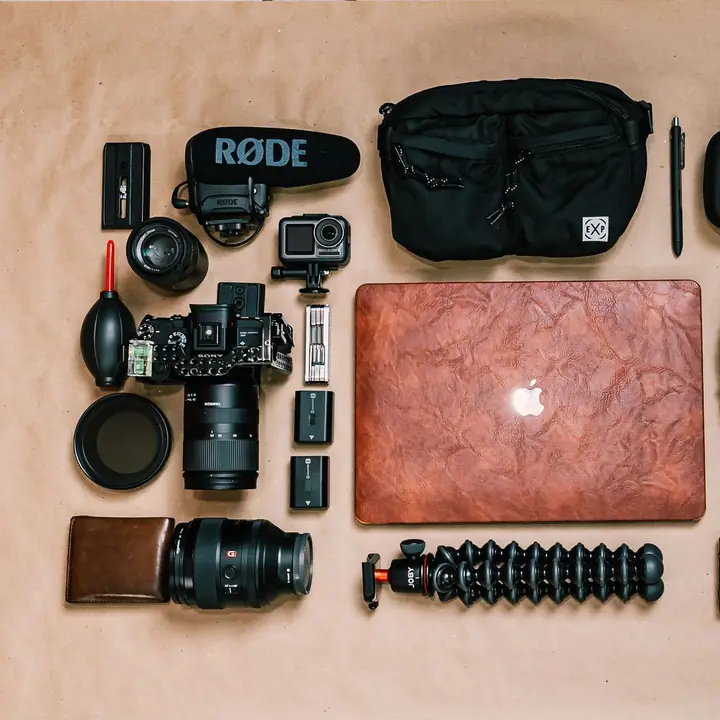
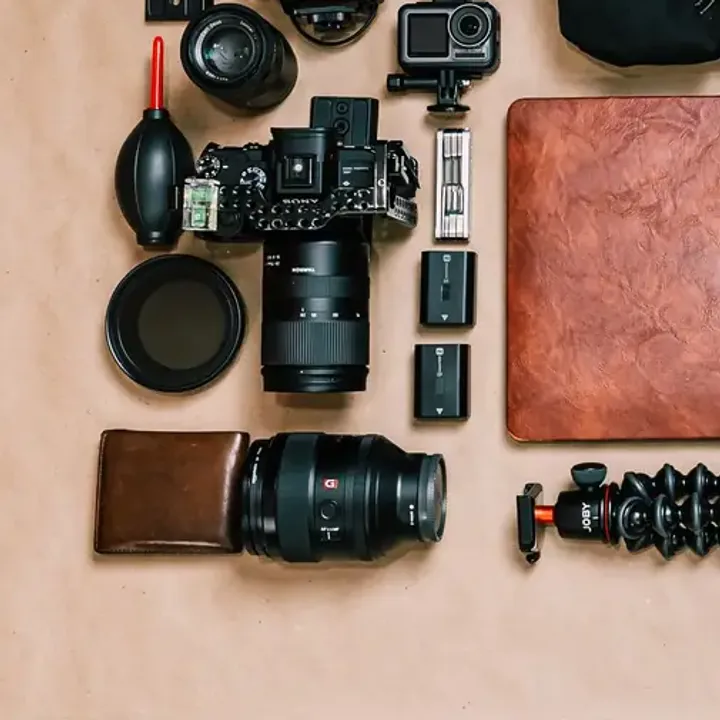
Harden the real-media work: licensing, contrast, motion and payload
The photography and footage landed in e9f0655; this is the audit pass over it.
An adversarial review across licensing, trademarks, endorsement, accessibility,
payload and regression found 16 defects that survived verification. Endorsement
came back clean — no photo is captioned or positioned as a Creator Vault
customer, which was the licence risk worth checking.

Licensing. Re-running the ingest script without FFMPEG rewrote CREDITS.md from
the current run's successes, so the documented no-FFMPEG mode silently deleted
the hero video's only record of source, photographer and licence while the three
video files kept shipping. A failed photo download did the same to its row.
Credits are now built from what is actually on disk, and an asset no manifest
entry claims warns loudly instead of shipping uncredited. Verified by simulating
both failure modes against the real code path with the network stubbed.

Trademarks. brand-01 carried a large legible RØDE wordmark and an Apple logo on
the tile captioned "Brand Kit". The brief asks us to avoid those where we can, so
the shot is cropped to the gear and keeps its 1:1 framing. The crop is recorded
in the manifest as a fractional box and applied by the ingest pipeline before the
downscale, so a future re-run reproduces the trademark-free framing at full
resolution rather than restoring the original. Its alt text no longer describes a
microphone and headphones that are not in the frame.
[…]

diff --git a/src/components/hero-backdrop.tsx b/src/components/hero-backdrop.tsx
@@ -2,7 +2,7 @@
 
 import { useEffect, useRef } from "react";
 
-import { usePrefersReducedMotion } from "@/lib/use-reduced-motion";
+import { useIsHydrated, usePrefersReducedMotion } from "@/lib/use-reduced-motion";
 
 /**
  * Creator-at-work footage behind the whole hero, dimmed so the headline stays
@@ -10,13 +10,17 @@ import { usePrefersReducedMotion } from "@/lib/use-reduced-motion";
  * public/media/CREDITS.md.
  *
  * A real person moving behind the copy is exactly what a reduced-motion
- * preference is asking us not to do, so this is a client component: when the
- * preference is on, the loop is held on its first frame (which is also the
- * poster), and the page reads as a still photograph. The preference can change
- * mid-session, so it is applied in an effect rather than only at mount.
+ * preference is asking us not to do, so motion here is opt-in rather than
+ * opt-out. The element ships WITHOUT `autoplay` and without sources: the
+ * server cannot know the preference, and an SSR `autoplay` would start the
+ * fetch at parse time and have the whole loop down before any effect could
+ * pause it. Under reduced motion the loop is therefore never requested at all
+ * and the poster is the entire backdrop. The preference can change mid-session,
+ * so it is applied in an effect rather than only at mount.
  */
 export function HeroBackdrop() {
   const reduced = usePrefersReducedMotion();
+  const hydrated = useIsHydrated();
   const videoRef = useRef<HTMLVideoElement>(null);
 
   useEffect(() => {
@@ -25,12 +29,17 @@ export function HeroBackdrop() {
     if (reduced) {
       video.pause();
       video.currentTime = 0;
-    } else {
-      // Autoplay policies may have declined before hydration; asking again is
-      // harmless and a rejection just leaves the poster in place.
-      video.play().catch(() => {});
+      return;
     }
-  }, [reduced]);
+    // The <source> children appear only after hydration, and appending them
+    // does not by itself restart resource selection — the element already
+    // finished with no source and sits at NETWORK_EMPTY. load() is what makes
+    // it look again; without it play() rejects and only the poster is ever
+    // shown.
+    if (video.networkState === video.NETWORK_EMPTY) video.load();
+    // Autoplay policies may decline; a rejection just leaves the poster up.
+    video.play().catch(() => {});
+  }, [reduced, hydrated]);
 
   return (
     <div aria-hidden="true" className="pointer-events-none absolute inset-0 -z-10">
@@ -38,18 +47,24 @@ export function HeroBackdrop() {
         ref={videoRef}
         className="h-full w-full object-cover opacity-70"
         poster="/media/hero-creator-poster.webp"
-        autoPlay={!reduced}
         muted
         loop
         playsInline
-        preload="metadata"
+        preload={reduced ? "none" : "metadata"}
         // A background loop is decoration: keep it out of the a11y tree and off
         // the tab order.
         tabIndex={-1}
         aria-hidden="true"
       >
-        <source src="/media/hero-creator.webm" type="video/webm" />
-        <source src="/media/hero-creator.mp4" type="video/mp4" />
+        {/* Held back until the client confirms motion is welcome — see the
+            component comment for why `autoplay` and the sources cannot ship in
+            the server markup. */}
+        {hydrated && !reduced && (
+          <>
+            <source src="/media/hero-creator.webm" type="video/webm" />
+            <source src="/media/hero-creator.mp4" type="video/mp4" />
+          </>
+        )}
       </video>
       <div className="absolute inset-0 bg-gradient-to-b from-ink-900/55 via-ink-900/70 to-ink-900" />
       {/* Keep the left column legible on wide screens where the copy sits over

diff --git a/src/components/content-wall.tsx b/src/components/content-wall.tsx
@@ -31,24 +31,48 @@ export function ContentWall() {
       {/* --- phone: two swipeable rails --- */}
       <Reveal delay={80} className="mt-10 space-y-3 md:hidden">
         <div className="container-page">
-          <div className="rail pb-1">
+          {/* A scroll container needs a tab stop, or its overflow is
+              unreachable without a pointer. globals.css already paints the
+              gold ring on [tabindex]:focus-visible. */}
+          <div
+            className="rail pb-1"
+            tabIndex={0}
+            role="group"
+            aria-label="Content you can protect, row 1 of 2"
+          >
             {topRow.map((item) => (
               <div key={item.src} className="rail-item w-[42vw] max-w-[11rem]">
-                <MediaTile item={item} sizes="42vw" className="aspect-[9/14]" />
+                {/* 42vw and max-w-[11rem] meet at 419px; above that the tile is
+                    a fixed 176px. Keeping the 42vw term holds 384w in the
+                    srcset for the narrow case. */}
+                <MediaTile
+                  item={item}
+                  sizes="(max-width: 419px) 42vw, 176px"
+                  className="aspect-[9/14]"
+                />
               </div>
             ))}
           </div>
         </div>
         <div className="container-page">
-          <div className="rail pb-1">
+          <div
+            className="rail pb-1"
+            tabIndex={0}
+            role="group"
+            aria-label="Content you can protect, row 2 of 2"
+          >
             {bottomRow.map((item) => (
               <div key={item.src} className="rail-item w-[42vw] max-w-[11rem]">
-                <MediaTile item={item} sizes="42vw" className="aspect-[9/14]" />
+                <MediaTile
+                  item={item}
+                  sizes="(max-width: 419px) 42vw, 176px"
+                  className="aspect-[9/14]"
+                />
               </div>
             ))}
           </div>
         </div>
-        <p className="container-page pt-1 text-xs text-muted">Swipe to see more &rarr;</p>
+        <p className="container-page pt-1 text-xs text-muted">Swipe or scroll to see more &rarr;</p>
       </Reveal>
 
       {/* --- tablet and up: masonry --- */}

diff --git a/src/app/layout.tsx b/src/app/layout.tsx
@@ -30,13 +30,18 @@ export default function RootLayout({ children }: { children: React.ReactNode }) 
       <head>
         {/*
           Marks the document as scripting-capable before first paint, which is
-          what gates the scroll-reveal styles. Without this the reveal classes
-          would hide every section with no way to un-hide them if the bundle
-          never runs.
+          what gates the scroll-reveal styles.
+
+          The flag is set optimistically and then withdrawn on a timer: an
+          inline script proves scripting is ON, not that the bundle will arrive,
+          so a failed or blocked chunk would otherwise leave every section
+          hidden with nothing left to un-hide it. Reveal's effect cancels the
+          timer as soon as it mounts, so the withdrawal only ever fires when the
+          bundle genuinely never ran.
         */}
         <script
           dangerouslySetInnerHTML={{
-            __html: `document.documentElement.setAttribute("data-js","1")`,
+            __html: `var d=document.documentElement;d.setAttribute("data-js","1");d.dataset.revealFailsafe=String(setTimeout(function(){d.removeAttribute("data-js")},4000))`,
           }}
         />
       </head>

diff --git a/src/components/reveal.tsx b/src/components/reveal.tsx
@@ -17,8 +17,10 @@ import { usePrefersReducedMotion } from "@/lib/use-reduced-motion";
  *  2. A rect-based sweep on scroll, throttled to one animation frame, as a
  *     backstop for intersections the observer coalesces away during fast or
  *     programmatic scrolling.
- *  3. The styles themselves are gated on `html[data-js="1"]`, so if the bundle
- *     never runs the page renders fully visible instead of blank.
+ *  3. The styles themselves are gated on `html[data-js="1"]`, which layout.tsx
+ *     sets inline and then withdraws on a 4s timer. This effect cancels that
+ *     timer, so a bundle that never arrives un-hides the page instead of
+ *     leaving it blank.
  */
 export function Reveal({
   children,
@@ -34,6 +36,14 @@ export function Reveal({
   const [seen, setSeen] = useState(false);
 
   useEffect(() => {
+    // The bundle ran, so the failsafe in layout.tsx must not strip data-js.
+    const root = document.documentElement;
+    const failsafe = root.dataset.revealFailsafe;
+    if (failsafe) {
+      window.clearTimeout(Number(failsafe));
+      delete root.dataset.revealFailsafe;
+    }
+
     if (reduced) return;
 
     const node = ref.current;

diff --git a/src/components/media-tile.tsx b/src/components/media-tile.tsx
@@ -6,7 +6,7 @@ const KIND_TINT: Record<string, string> = {
   Reel: "text-magenta-400",
   Video: "text-gold-400",
   Photo: "text-cyan-400",
-  Podcast: "text-violet-400",
+  Podcast: "text-violet-300",
   Thumbnail: "text-gold-300",
   "Brand Kit": "text-mint-400",
   Script: "text-cream-300",
@@ -24,18 +24,23 @@ export function MediaTile({
   sizes = "(max-width: 640px) 60vw, (max-width: 1024px) 33vw, 25vw",
   priority = false,
   showBadge = true,
+  alt,
 }: {
   item: MediaItem;
   className?: string;
   sizes?: string;
   priority?: boolean;
   showBadge?: boolean;
+  /** Override the catalogue alt; pass "" when the tile is purely decorative. */
+  alt?: string;
 }) {
   return (
     <figure className={`media-tile group ${className}`}>
       <Image
         src={item.src}
-        alt={item.alt}
+        // `??` not `||`, so an explicit "" is honoured rather than falling
+        // back to the full description.
+        alt={alt ?? item.alt}
         width={item.width}
         height={item.height}
         sizes={sizes}

diff --git a/src/middleware.ts b/src/middleware.ts
@@ -77,9 +77,13 @@ export async function middleware(request: NextRequest) {
 export const config = {
   matcher: [
     /*
-     * Everything except Next internals and static assets. The Paddle webhook is
-     * excluded because it authenticates by signature, not by session cookie.
+     * Everything except Next internals and static assets. The hero loop's
+     * mp4/webm are excluded for the same reason as the images: they are static
+     * files that never need a session, and without them every byte-range
+     * request for the video would cost a Supabase getUser() round trip. The
+     * Paddle webhook is excluded because it authenticates by signature, not by
+     * session cookie.
      */
-    "/((?!_next/static|_next/image|favicon.ico|api/paddle/webhook|.*\\.(?:svg|png|jpg|jpeg|gif|webp|ico)$).*)",
+    "/((?!_next/static|_next/image|favicon.ico|api/paddle/webhook|.*\\.(?:svg|png|jpg|jpeg|gif|webp|ico|mp4|webm)$).*)",
   ],
 };

diff --git a/src/components/hero.tsx b/src/components/hero.tsx
@@ -55,7 +55,7 @@ export function Hero({ signedIn }: { signedIn: boolean }) {
 
           <div className="text-center lg:col-start-1 lg:row-start-2 lg:text-left">
             <Reveal delay={140}>
-              <p className="prose-muted mx-auto max-w-lg lg:mx-0">
+              <p className="prose-muted mx-auto max-w-lg text-cream-300 lg:mx-0">
                 Your best work shouldn&rsquo;t live in only one place. Keep an independent copy
                 of the videos, photos and files your audience is built on.
               </p>
@@ -149,7 +149,8 @@ function HeroCollage() {
         <MediaTile
           item={podcast!}
           priority
-          sizes="(max-width: 640px) 40vw, 190px"
+          // Real box is 228 CSS px; 190 left this tile at 1.68x on retina.
+          sizes="(max-width: 640px) 40vw, 240px"
           className="aspect-square shadow-2xl shadow-black/60 ring-1 ring-white/10"
         />
       </div>

diff --git a/src/lib/use-reduced-motion.ts b/src/lib/use-reduced-motion.ts
@@ -28,3 +28,21 @@ function getSnapshot() {
 export function usePrefersReducedMotion(): boolean {
   return useSyncExternalStore(subscribe, getSnapshot, () => false);
 }
+
+const noopSubscribe = () => () => {};
+
+/**
+ * False during SSR and the hydration pass, true once the client owns the tree.
+ *
+ * Lets a component keep something out of the server markup until the real
+ * client-side value of a media query is known. useSyncExternalStore rather
+ * than a setState-in-effect flag so it stays inside the lint rules and does
+ * not schedule an extra commit.
+ */
+export function useIsHydrated(): boolean {
+  return useSyncExternalStore(
+    noopSubscribe,
+    () => true,
+    () => false,
+  );
+}

diff --git a/src/app/globals.css b/src/app/globals.css
@@ -32,6 +32,7 @@
 
   --color-magenta-400: #ff3d7f;
   --color-magenta-500: #e01f63;
+  --color-violet-300: #c4b5fd;
   --color-violet-400: #a855f7;
   --color-violet-500: #7b2ff7;
   --color-cyan-400: #22d3ee;
@@ -266,10 +267,6 @@ html[data-js="1"] .reveal[data-revealed="true"] {
 @keyframes sweep {
   0% { transform: translateX(-120%); }
   100% { transform: translateX(220%); }
-}
-@keyframes bar-rise {
-  0%, 100% { transform: scaleY(0.32); }
-  50% { transform: scaleY(1); }
 }
 
 .animate-drift { animation: drift 7s ease-in-out infinite; }

diff --git a/src/components/site-footer.tsx b/src/components/site-footer.tsx
@@ -19,7 +19,7 @@ export function SiteFooter() {
           <div className="grid grid-cols-2 gap-x-12 gap-y-6 sm:grid-cols-3">
             <FooterColumn title="Product">
               <FooterLink href="/#how-it-works">How it works</FooterLink>
-              <FooterLink href="/#what-you-can-store">What you can store</FooterLink>
+              <FooterLink href="/#what-you-can-protect">What you can protect</FooterLink>
               <FooterLink href="/#pricing">Pricing</FooterLink>
             </FooterColumn>
 

diff --git a/src/components/how-it-works.tsx b/src/components/how-it-works.tsx
@@ -132,6 +132,10 @@ function UploadVisual() {
             showBadge={false}
             sizes="32px"
             className="h-9 w-7 shrink-0"
+            // A thumbnail standing in for "a file" inside a mock upload card:
+            // announcing the photograph's full description would describe
+            // scenery the diagram is not about.
+            alt=""
           />
           <div className="min-w-0 flex-1">
             <div className="h-1.5 w-16 rounded-full bg-ink-600" />

diff --git a/next.config.ts b/next.config.ts
@@ -2,6 +2,12 @@ import type { NextConfig } from "next";
 
 const nextConfig: NextConfig = {
   reactStrictMode: true,
+  images: {
+    // Next's default is webp-only. Offering AVIF first cuts the landing
+    // page's image payload substantially at equivalent visual quality; the
+    // optimizer sends `Vary: Accept`, so browsers without AVIF still get WebP.
+    formats: ["image/avif", "image/webp"],
+  },
   poweredByHeader: false,
   async headers() {
     return [
